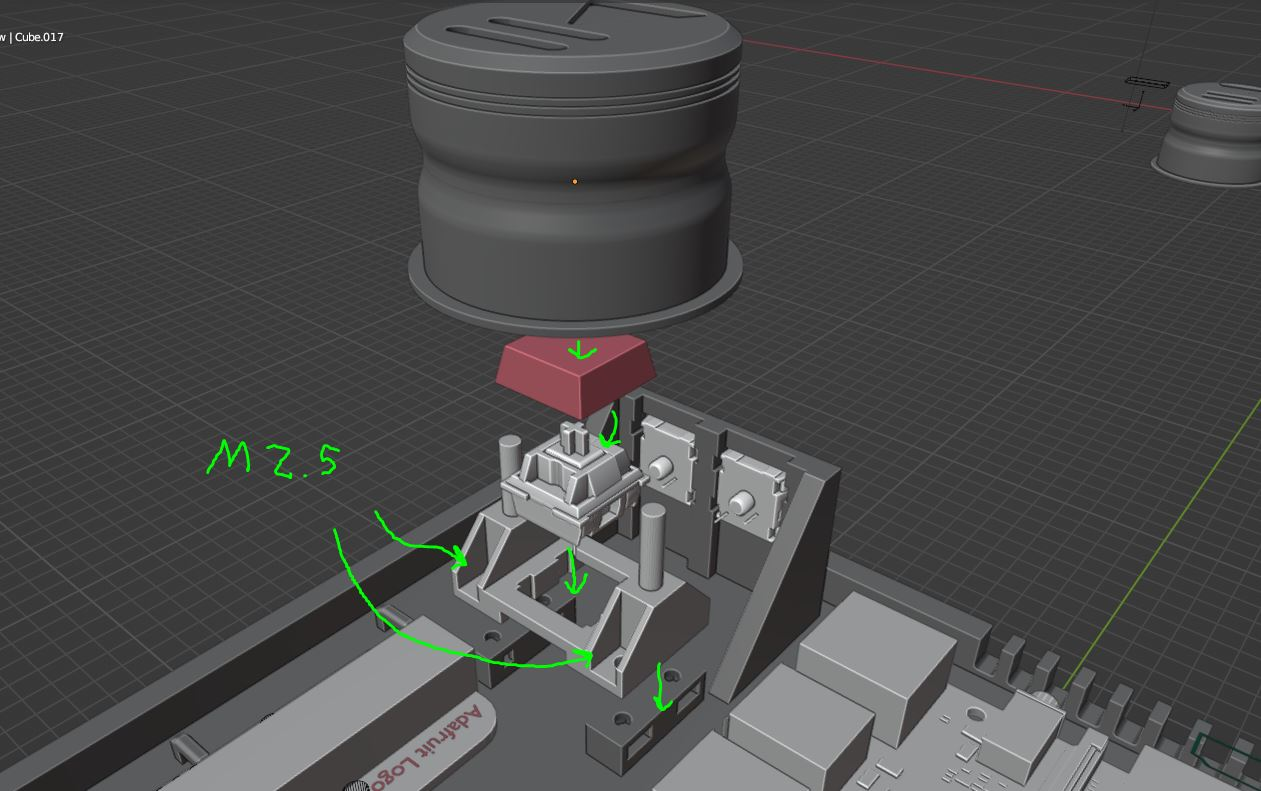
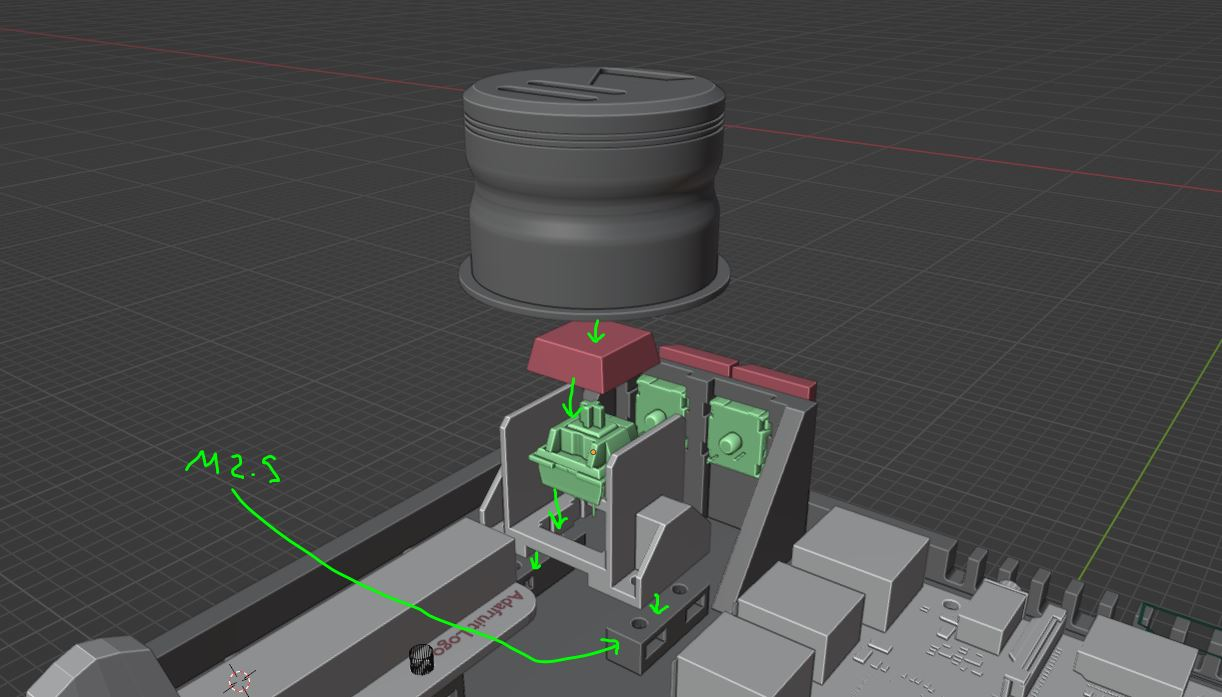
Update assembly documentation
Correct error in images, expanded grounding instructions and show the correct updated playpause button mount part.

diff --git a/docs/assembly.md b/docs/assembly.md
@@ -123,11 +123,11 @@ We will need to solder:
 1. Headers onto the `NeoKey Sockets` facing outward [3X]
 2. Headers on the `NeoKey Sockets` facing inward [2X]
 3. Headers onto the `RGB matrix bonnet` 
-4. Ground wires together
+4. Adding headers to NeoSlider ground & solder ground wires together 
 
 > **☠ Warning: for your own health, always solder in a well ventilated area or have a system that extracts the soldering fumes.**
 
-First, let's do the 3 outward sockets. It's going to be a huge help if you have something that can hold onto the parts while you solder (unless you have 4 arms).  Break off two pins of the right angled headers and solder them onto the NeoKey `S+` and `S-` holes.  **⚠ Ensure you are soldering on the side with the LED (otherwise the switch wont fit!).** Have the headers point outward.
+First, let's do the 3 outward sockets. It's going to be a huge help if you have something that can hold onto the parts while you solder (unless you have 4 arms).  Break off two pins of the right angled headers and solder them onto the NeoKey `S+` and `S-` holes (also labeled as C(athode) and A(node)).  **⚠Ensure you are soldering on the side with the LED (otherwise the switch wont fit!).** Have the headers point outward.
 
 ![electronics step 3 - outward soldering](../media/assembly/electronics_step_3.JPG)
 
@@ -149,6 +149,10 @@ Then we want to solder the RGB bonnet. Here we will need to solder the following
 
 ![electronics step 5 - RGB matrix bonnet](../media/assembly/electronics_step_5c.JPG)
 
+Finally we solder some right-angled headers onto the NeoSliders so that we can make use of the ground pads on the slider. The RGB bonnet only has a single ground connection, which is used up by the StemmaQT cable, so we use the Slider `gnd` pads to ground our `NeoKeys`. We only need a header connected to ground. but a header of two pins is a lot easier to solder.
+
+![](../media/assembly/electronics_slider_soldering.JPG)
+
 Now it is time to mount all the remaining components and wire it all up 🎉
 
 To start with, add the  `RGB matrix bonnet` onto the raspberry pi. That should slide onto the Pi's headers with quite a lot of friction. 
@@ -157,7 +161,13 @@ Then, it is time to start connecting the switches. We will do the side buttons f
 
 ![electronics - mx switches side](../media/assembly/electronics_step_6.JPG)
 
-On the backside (where the MX-switch pins are), add the *inward-facing* `NeoKeys`, with the headers pointing down as in the picture. *It ain't pretty but it will work.* I suggest you add some of the header wires onto the headers *before* you place them on the switches, but it is not a problem if you don't as the PCBs are only held in place by friction. It should look like the situation below
+On the backside (where the MX-switch pins are), add the *inward-facing* `NeoKeys`, with the headers pointing down as in the picture. *It ain't pretty but it will work.* I suggest you add some of the header wires onto the headers *before* you place them on the switches, but it is not a problem if you don't as the PCBs are only held in place by friction. 
+
+> **Note**
+>
+> The 5 `S-` cables of the `NeoKeys` need to be wired to ground. The easiest way is to solder them to the `GND` pads on the ``NeoSlider`. These are connected to the Raspberry Pi ground via the `Stemma QT` connections. 
+
+It should look like the situation below:
 
 ![electronics - mx switches side](../media/assembly/electronics_step_6b.JPG)
 
@@ -173,8 +183,6 @@ Now all we need to do still is set up the main button `NeoKey`. This too attache
 
 On the switch, you can mount one of the `Relegendable Plastic Keycaps`, with the clear lid **taken off**. On top of that, the main play button can be placed. 
 
-> ⚠ Initially the button mechanism may have a lot of friction. Over some usage it will wear down and actuation will get smoother. If it is still not very smooth, you could sand down the pegs a bit on the printed part.
-
 ![electronics step - main button](../media/assembly/electronics_step_8.JPG)
 
 > The `NeoKey` PCB can be mounted either way, with the header pins pointing towards the `NeoSlider` or towards the side button. It doesn't really matter.
@@ -183,10 +191,8 @@ On the switch, you can mount one of the `Relegendable Plastic Keycaps`, with the
 
 Everything is in place, let's wire it up! Connect the `Stemma QT` cables to the pins on the `RGB matrix header` in the following way:
 
-
-
-* Yellow wire to SDA
-* Blue wire to SCL
+* Blue wire to SDA
+* Yellow wire to SCL
 * Red wire to +3.3V
 * Black wire to GND
 
@@ -198,9 +204,10 @@ For all the `NeoKeys`, wire the `S+` keys to the following pins
 * Side button 1 (closest to Raspberry Pi) to `CE0`
 * Side button 2 to `CE1` 
 
-![electronics step - wiring diagram](../media/assembly/electronics_step_5.JPG)
+> **Note**
+> If you don't mind soldering many wires together irreversibly, you can solder all the `S-` connections of the `NeoKeys` to the ground pins on the NeoSlider . A slightly nicer approach is to use some kind of [wire block connector](https://www.adafruit.com/product/874).
 
-The 5 `S-` cables of the `NeoKeys` need to be wired to ground. The easiest way is to solder them to the `GND` pads on the ``NeoSlider`. These are connected to the Raspberry Pi ground via the `Stemma QT` connections. 
+![electronics step - wiring diagram](../media/assembly/electronics_step_5.JPG)
 
 That should be most of the box set up. If you like, you can use zip ties to keep the cables in check; there are anchor points included on the box to secure the zip ties.
 
@@ -210,7 +217,7 @@ That should be most of the box set up. If you like, you can use zip ties to keep
 
 > Note that I used a fancy connector (orange) to connect the ground cables together; perf board would work just as well and be a lot cheaper. This connector is just handier during prototyping when it needs to be taken apart a lot.
 
-> Note the weird Bluetooth dongle plugged into the USB port; the one listed in the parts list should be smaller and fit better.
+> Note the weird Bluetooth dongle plugged into the USB port; the one listed in the parts list should be smaller and fit better. If you are using a Pi Zero, no adapter is needed.
 
 #### Connecting the display and final assembly 
 
